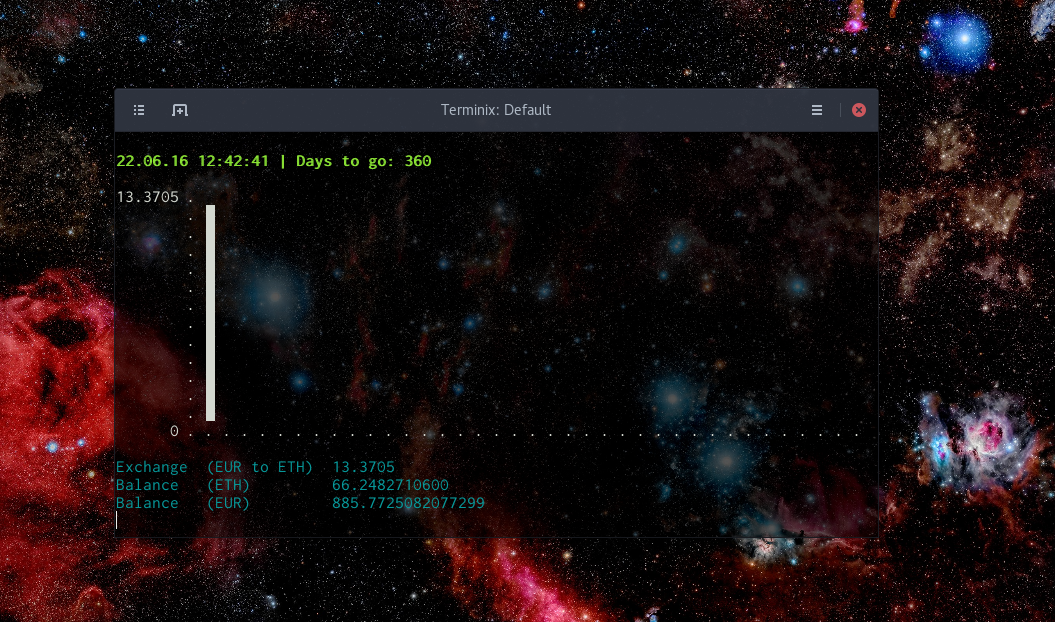
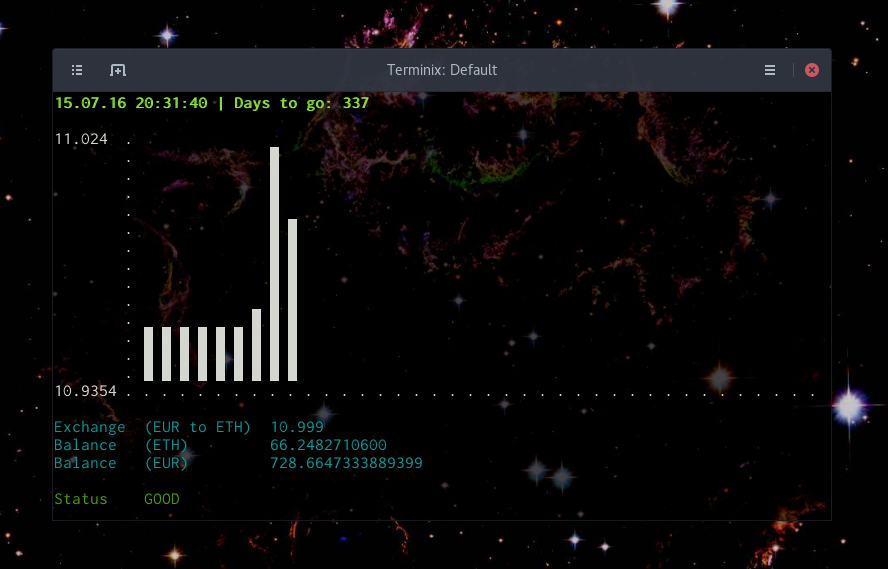
- changed screenshot - added a reset for the local user config - cleaned up some files - fixed chart plotting

diff --git a/app/chart/chart.js b/app/chart/chart.js
@@ -4,16 +4,17 @@ const _ = require('lodash');
 
 /* ===== VARIABLES ===== */
 let MIN_VALUE = 0;
+let Y_AXIS_DESCRIPTION_WIDTH = 12;
 
 /* ===== EXPOSE `chart()` ===== */
 module.exports.draw = draw;
 module.exports.update = update;
 
-function update(data, dataSet, width, height) {
-  if (data.length >= ((width - 12) / 2)) { data.shift(); }
+function update(data, dataSet, outerWidth, height) {
+  if (data.length >= ((outerWidth - Y_AXIS_DESCRIPTION_WIDTH) / 2)) { data.shift(); }
   data.push(dataSet);
 
-  return draw(data, width, height, relativeMinValue(data, 4));
+  return draw(data, outerWidth, height, relativeMinValue(data, 4));
 }
 
 function draw(data, width, height, minValue) {
@@ -30,7 +31,7 @@ function draw(data, width, height, minValue) {
 
   // prefill output matrix
   for (let y = 0; y < height; y++) {
-    output[y] = _.fill(Array(width), ' ');
+    output[y] = _.fill(new Array(width), ' ');
   }
 
   // set y-axis labels
@@ -53,10 +54,10 @@ function draw(data, width, height, minValue) {
 
   // plot data
   let currentXYPosition = labelWidth + labelPadding + 2;
-  _.forEach(data, function(dataValue) {
-    dataValue = dataValue - minValue;
+  _.forEach(data, function(currentvalue) {
+    currentvalue = currentvalue - minValue;
 
-    let relativeHeight = Math.round((height - 2) * (dataValue / (maxValue - minValue)));
+    let relativeHeight = Math.round((height - 2) * (currentvalue / (maxValue - minValue)));
     let color = relativeHeight < 0 ? ' ' : '█';
 
     if (relativeHeight < 0) { relativeHeight = -relativeHeight; }
@@ -82,21 +83,15 @@ function relativeMinValue(data, zoom) {
   const defaultZoom = 0.9;
 
   if (data.length === 1) {
-    MIN_VALUE = Math.floor(data[0] * defaultZoom);
+    MIN_VALUE = _.floor(data[0] * defaultZoom);
   } else {
     let delta = Math.abs(data[data.length - 1] - data[data.length - 2]);
-    minBase = _.min([data[data.length - 2], data[data.length - 1]]);
+    let minBase = _.min([data[data.length - 2], data[data.length - 1]]);
 
-    if (delta === 0) {
-      return MIN_VALUE;
-    } else if (MIN_VALUE > _.min(data)) {
-      MIN_VALUE = _.min(data) * defaultZoom;
-      console.log(MIN_VALUE);
-    } else {
-      MIN_VALUE = minBase - zoom * delta;
+    if (delta != 0) {
+      MIN_VALUE = ((minBase > _.min(data)) ? _.min(data) : minBase) - zoom * delta;
     }
   }
 
-  MIN_VALUE = _.round(MIN_VALUE, 4);
-  return MIN_VALUE;
+  return _.round(MIN_VALUE, 4);
 }

diff --git a/server.js b/server.js
@@ -25,7 +25,7 @@ process.on('SIGINT', function () {
   process.exit();
 });
 
- /* ===== VARIABLES ===== */
+ /* ===== STARTUP ===== */
 const cli = runConfig.cli;
 const print = runConfig.print;
 const printInLine = runConfig.printInLine;
@@ -39,8 +39,10 @@ let lastFetch = {
   depositValue: '-'
 };
 
+init();
+
 /* ===== FUNCTIONS ===== */
-(function initialiser() {
+function init() {
   cursor.hide();
 
   if (fileExists(__dirname + '/config/user.config.json')) {
@@ -49,7 +51,11 @@ let lastFetch = {
 
   if (cli.print) {
     printConfig();
-    cursor.show().write('\n');
+    process.exit();
+  }
+
+  if (cli.reset) {
+    userConfig = {};
     process.exit();
   }
 
@@ -63,7 +69,7 @@ let lastFetch = {
   if (cli.chartHeight) { userConfig.chart.height = cli.chartHeight }
 
   validateConfig();
-})();
+}
 
 function validateConfig() {
   if (!userConfig.updateIntervall) { configError('updateIntervall') }

diff --git a/app/config/run.config.js b/app/config/run.config.js
@@ -9,6 +9,7 @@ const debugEnabled = true;
 cli
   .version('0.1.5')
   .option('-p, --print', 'print the current configuration')
+  .option('-r --reset', 'reset the current configuration')
   .option('-i, --intervall [time of intervall]', 'update intervall in seconds')
   .option('-d, --day [day bought]', 'day bought')
   .option('-k, --key [kraken key]', 'your kraken key')

diff --git a/app/logger/logger.service.js b/app/logger/logger.service.js
@@ -36,5 +36,5 @@ function formatBody(data) {
 }
 
 function formatHeader(data) {
-  return `timeStamp, exchangeRate, etherBalance, depositValue\n`;
+  return `timeStamp,exchangeRate,etherBalance,depositValue\n`;
 }

diff --git a/README.md b/README.md
@@ -1,6 +1,7 @@
 ![screenshot](screenshot.png)
 
-`ether-tracker` is a small nodejs based application to track Ethereum related information by utilising the APIs provided by kraken.com.
+`ether-tracker` is a small nodejs based application to track Ethereum related 
+information by utilising the APIs provided by kraken.com.
 
 ### Table of Contents
 1. [Features](#features)
@@ -26,26 +27,32 @@
 Have a look at the [CHANGELOG.md](CHANGELOG.md).
 
 ### Installation
-Simply via npm `npm install -g ether-tracker`
+Simply via npm `npm install -g ether-tracker`.
 
 And start the program by typing `ether-tracker` into your command line.
 
 ### Kraken API
-To use this tracker you can specify a kraken API key and secret, so your current founds can be queried and displayed. Simply login to kraken, go [here](https://www.kraken.com/u/settings/api) and generate a new key. I would suggest to only check the box entitled with *Query Funds* as this is the only one you actually need. After generating you can simply copy paste the key and secret into your console.
+To use this tracker you can specify a kraken API key and secret, so your current 
+founds can be queried and displayed. Simply login to kraken, go 
+[here](https://www.kraken.com/u/settings/api) and generate a new key. I would 
+suggest to only check the box entitled with *Query Funds* as this is the only one 
+you actually need. After generating you can simply copy paste the key and secret 
+into your console like shown below.
 
 ### CLI
-The CLI provides some options to be set by user on starting the tracker.  
+The CLI provides some options to be set by user on the startup of the tracker.  
 
 This is how one could start the tracker:
 ```
 ether-tracker -k KEY -s SECRET  -c EUR -d 2016-01-13 -i 120 -l false
 ```
-Or without an API key and secret to only show the graph
+Or without an API key and secret to only show the graph without your balance:
 ```
 ether-tracker -c EUR -i 10
 ```
 
-The configuration is saved in 'config/user.config.json'. Everytime you update a config parameter, the old one gets overridden.
+The configuration is saved in 'config/user.config.json'. Everytime you update a 
+config parameter, the old one gets overridden.
 
 All options can be found by using the help command:
 ```
@@ -61,6 +68,7 @@ Usage: ether-tracker
     -h, --help                           output usage information
     -V, --version                        output the version number
     -p, --print                          print the current configuration
+    -r, --reset                          reset the current configuration
     -i, --intervall [time of intervall]  update intervall in seconds
     -d, --day [day bought]               day bought
     -k, --key [kraken key]               your kraken key
@@ -81,11 +89,15 @@ Possible options for `exchangeKey`:
 - chart only (so you don't need a kraken account)
 
 ### Security
-Be aware that your kraken API key and secret are not encrypted, but stored locally on your machine. That means that anyone with access to your machine can find the config file with your credentials, if one knows where to search for!
+Be aware that your kraken API key and secret are not encrypted, but stored locally 
+on your machine. That means that anyone with access to your machine can find the 
+config file with your credentials, if one knows where to search for!
 
 ### Known Problems
 
-Sometimes it seems like the kraken API is a bit overwhelmed by all our love, so the programm is not shutting down anymore, when an API call failed. But informs the user and tries it again at the next interval.
+Sometimes it seems like the kraken API is a bit overwhelmed by all our love, so the 
+programm is not shutting down anymore, when an API call failed. But informs the user 
+and tries it again at the next interval.
 
 ### Copyright/Licensing
 ISC

diff --git a/CHANGELOG.md b/CHANGELOG.md
@@ -1,8 +1,8 @@
 ### Changelog
 
-#### 09.07.2016 1.1.0
+#### 15.07.2016 1.1.0
 - refactored and modularized pretty much all of the core functionality
-- added a logging function which can be enabled by using the `-l true` flag and generates a .csv file in `app/logger/`. Could be useful for message learning purposes.
+- added a logging function which can be enabled by using the `-l true` flag and generates a .csv file in `app/logger/`. Could be useful for message learning purposes / prediction markets.
 - improvements to the handling of the zoom into the data, depending on the past data. From now on, the smallest number in the current data is at least the smallest in the chart - no more negative plotted data.
 - the chart is from now on also shown without providing a kraken API key and secret
 
